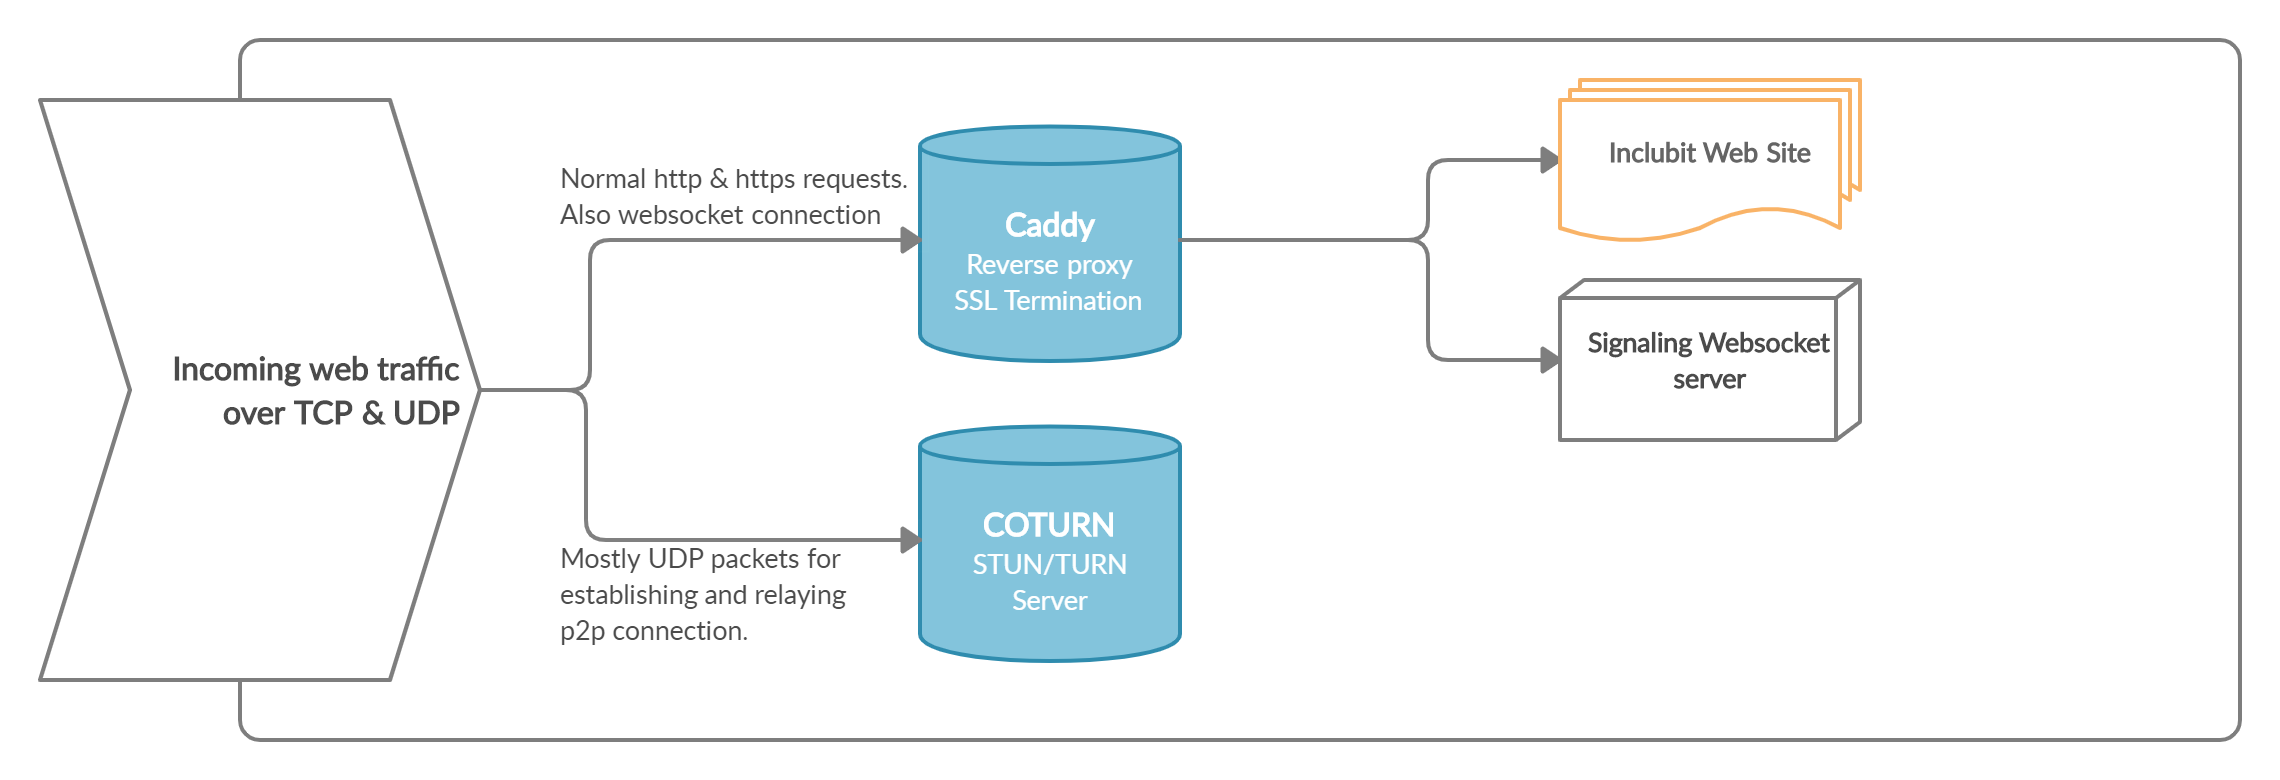
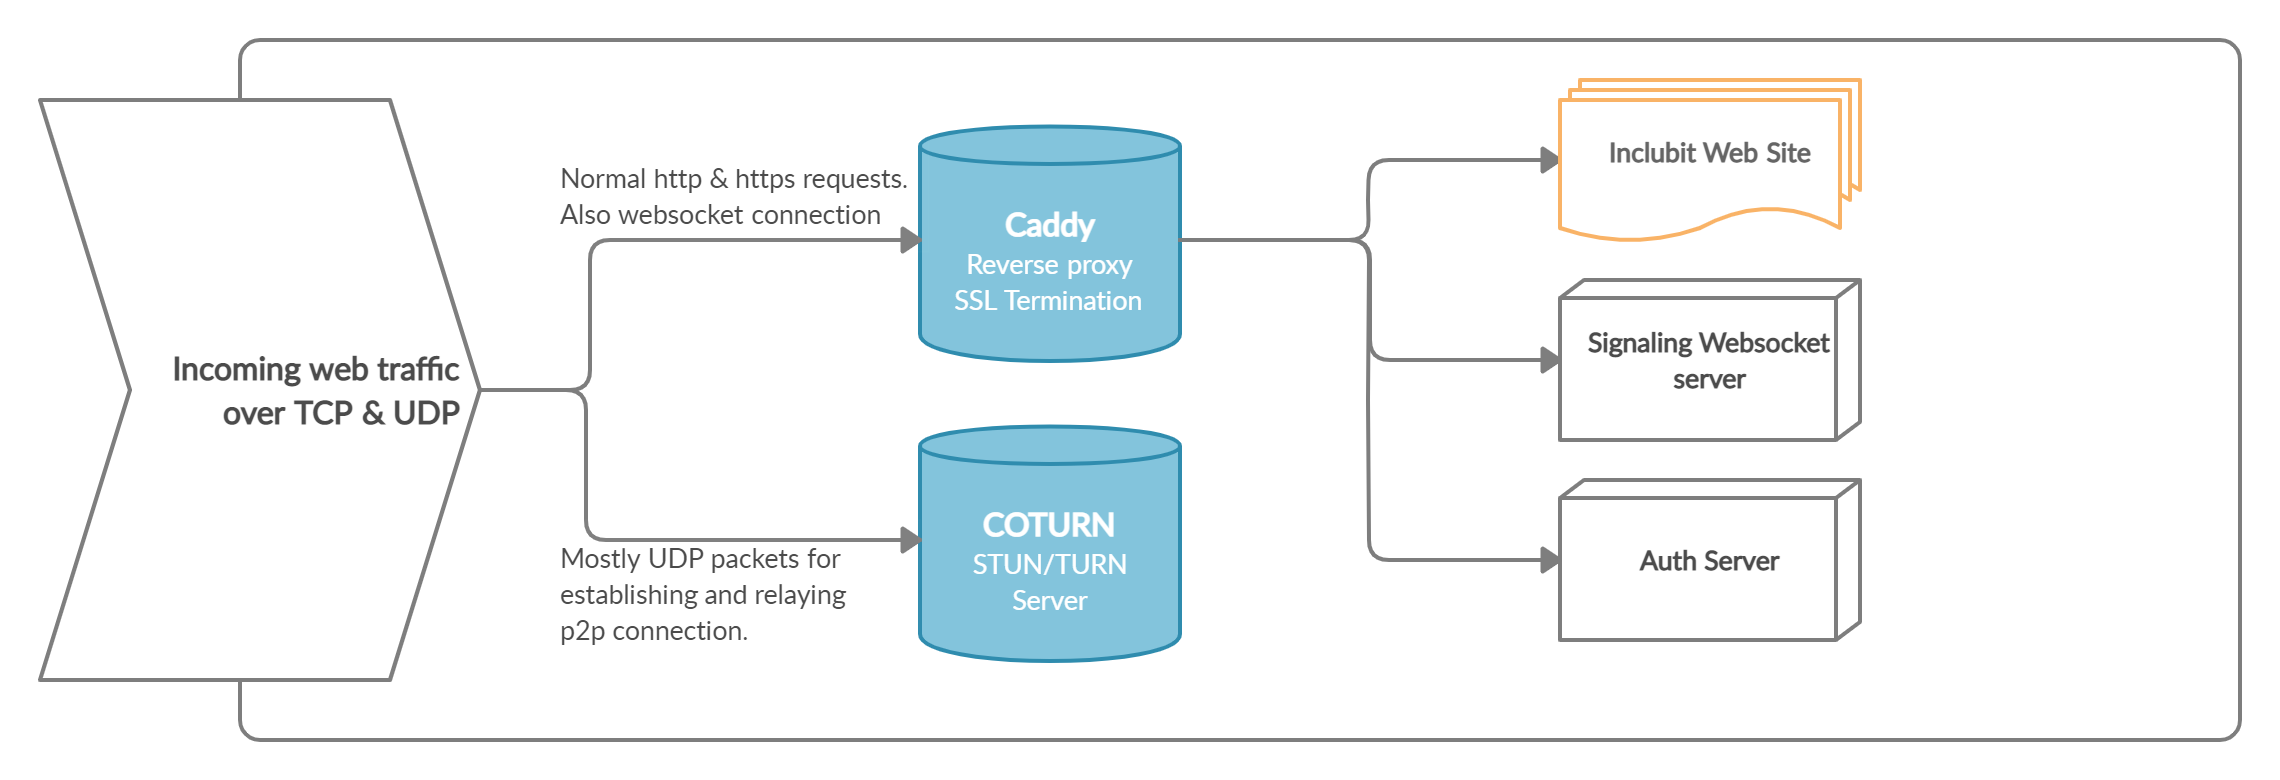
more fixes in docs

diff --git a/README.md b/README.md
@@ -20,10 +20,10 @@ The backend consists of a few different server programs that are needed to host 
 In this project, the containers are configured and defined in a docker-compose file. [Docker compose](https://docs.docker.com/compose/) is a tool for defining and running multiple containers at the same time. 
 
 The different containers are:
-  - Caddy. Reverse proxy and static file server with automatic HTTPS
-  - Signaling Server
-  - Auth Server
-  - STUN/TURN Server
+  - **Caddy**. Reverse proxy and static file server with automatic HTTPS
+  - **Signaling Server**. WebRTC signaling implemented with nodejs and socket.io
+  - **Auth Server**. Nodejs express app implementing basic authentication.
+  - **STUN/TURN Server**. An instance of COTURN open source TURN-server
 
 #### Caddy
 The file server is an instance of [Caddy v2](https://caddyserver.com/). Caddy is a server software written in the language Go. It has built in functionality for retrieving and setting up https certificates using the free, open and automated certificate authority, [Let's Encrypt](https://letsencrypt.org/). In this project, Caddy is set up to act as both a static file server as well as a reverse proxy for the signaling server and auth endpoint. Key parts of the caddy configuration:
@@ -48,7 +48,7 @@ All other requests are handled as static file requests.
 The signaling server is responsible for handling the negotiation between the two peers when setting up the [webRTC](https://webrtc.org/) (web Real Time Communication) link.
 The signaling server is a nodejs-application
 
-#### Auth endpoint
+#### Auth server
 The auth endpoint is a node.js server running express.js. The authentication is very rudimentary and uses [basic access authentication](https://en.wikipedia.org/wiki/Basic_access_authentication).
 The node server is running in a container. The user list is kept in a json file that is mounted through a docker volume folder. The passwords are stored as is (not hashed, that is), so be sure to never reuse passwords from other services (or passwords that in some other way are considered personal).
 
